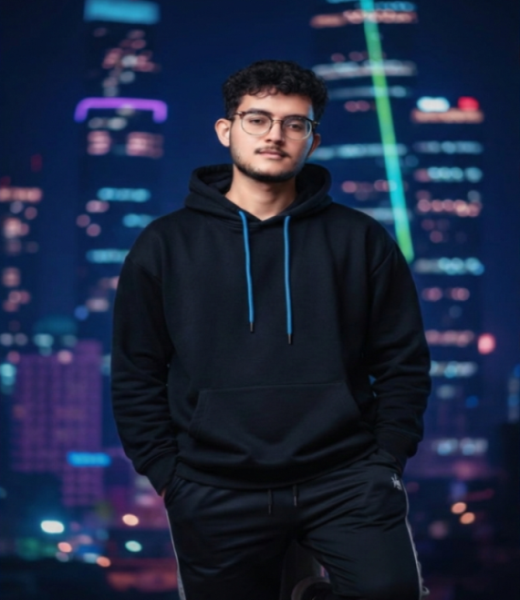
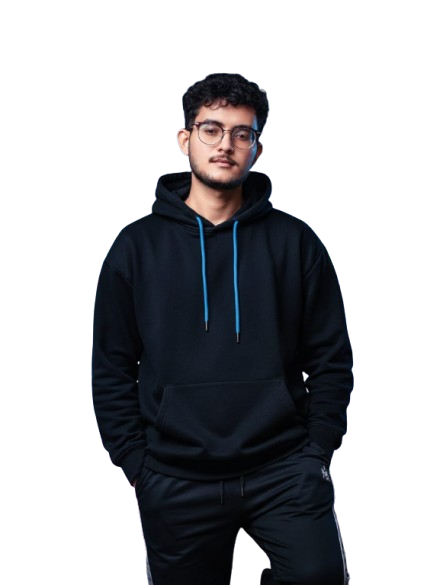
update

diff --git a/src/components/sections/Hero.jsx b/src/components/sections/Hero.jsx
@@ -69,49 +69,50 @@ const Hero = () => {
               </div>
             </FadeIn>
           </div>
-
           {/* Right Column Image */}
-          <FadeIn delay={200}>
-            <div className="relative">
-              <div className="relative overflow-hidden rounded-2xl aspact-4/5 max-w-125 ml-auto group">
-                <div className="absolute inset-0 rounded-2xl overflow-hidden">
-                  <div className="absolute -inset-0.5 bg-linear-to-r from-primary/20 via-primary/10 to-primary animate-spin-slow rounded-2xl"></div>
-                </div>
+<FadeIn delay={200}>
+  <div className="relative">
+    
+    {/* --- NEW: Glowing Background Effect --- */}
+    {/* This div sits behind the image container to create the glow. 
+        Adjust opacity (e.g., /40) or inset size (-inset-4) to tune the effect. */}
+    <div className="absolute -inset-4 z-0 bg-primary/20 blur-3xl rounded-3xl opacity-70 mix-blend-screen"></div>
 
-                {/* Image Container */}
-                <div className="relative rounded-2xl m-px h-[calc(100%-2px)]">
-                  <img
-                    src="/Asad's Portrait.png"
-                    alt="Image"
-                    className="w-full h-full object-cover"
-                  />
-                </div>
-
-                {/* Technology logo */}
-                <div className="absolute bottom-6 left-6 z-20">
-                  <FadeIn delay={500}>
-                    <div className="flex items-center gap-4 bg-black/40 backdrop-blur-sm border border-white/10 rounded-full px-6 py-3">
-                      <div className="w-6 h-6 flex items-center justify-center hover:scale-110 transition-transform duration-300">
-                        <SiReact className="w-full h-full text-primary" />
-                      </div>
-                      <div className="w-6 h-6 flex items-center justify-center hover:scale-110 transition-transform duration-300">
-                        <SiNextdotjs className="w-full h-full text-primary" />
-                      </div>
-                      <div className="w-6 h-6 flex items-center justify-center hover:scale-110 transition-transform duration-300">
-                        <SiNodedotjs className="w-full h-full text-primary" />
-                      </div>
-                      <div className="w-6 h-6 flex items-center justify-center hover:scale-110 transition-transform duration-300">
-                        <SiTailwindcss className="w-full h-full text-primary" />
-                      </div>
-                      <div className="w-6 h-6 flex items-center justify-center hover:scale-110 transition-transform duration-300">
-                        <SiMongodb className="w-full h-full text-primary" />
-                      </div>
-                    </div>
-                  </FadeIn>
-                </div>
-              </div>
+    {/* Existing Image Container - Added 'z-10' to keep it on top of the glow */}
+    <div className="relative z-10 overflow-hidden rounded-2xl aspect-4/5 max-w-125 ml-auto group">
+      {/* Image Container */}
+      <div className="relative rounded-2xl m-px h-[calc(100%-2px)]">
+        <img
+          src="/Asad's Portrait.png"
+          alt="Image"
+          className="w-full h-full object-cover"
+        />
+      </div>
+      {/* Technology logo */}
+      <div className="absolute bottom-6 left-6 z-20">
+        <FadeIn delay={500}>
+          <div className="flex items-center gap-4 bg-black/40 backdrop-blur-sm border border-white/10 rounded-full px-6 py-3">
+            <div className="w-6 h-6 flex items-center justify-center hover:scale-110 transition-transform duration-300">
+              <SiReact className="w-full h-full text-primary" />
             </div>
-          </FadeIn>
+            <div className="w-6 h-6 flex items-center justify-center hover:scale-110 transition-transform duration-300">
+              <SiNextdotjs className="w-full h-full text-primary" />
+            </div>
+            <div className="w-6 h-6 flex items-center justify-center hover:scale-110 transition-transform duration-300">
+              <SiNodedotjs className="w-full h-full text-primary" />
+            </div>
+            <div className="w-6 h-6 flex items-center justify-center hover:scale-110 transition-transform duration-300">
+              <SiTailwindcss className="w-full h-full text-primary" />
+            </div>
+            <div className="w-6 h-6 flex items-center justify-center hover:scale-110 transition-transform duration-300">
+              <SiMongodb className="w-full h-full text-primary" />
+            </div>
+          </div>
+        </FadeIn>
+      </div>
+    </div>
+  </div>
+</FadeIn>
         </div>
       </div>
 
